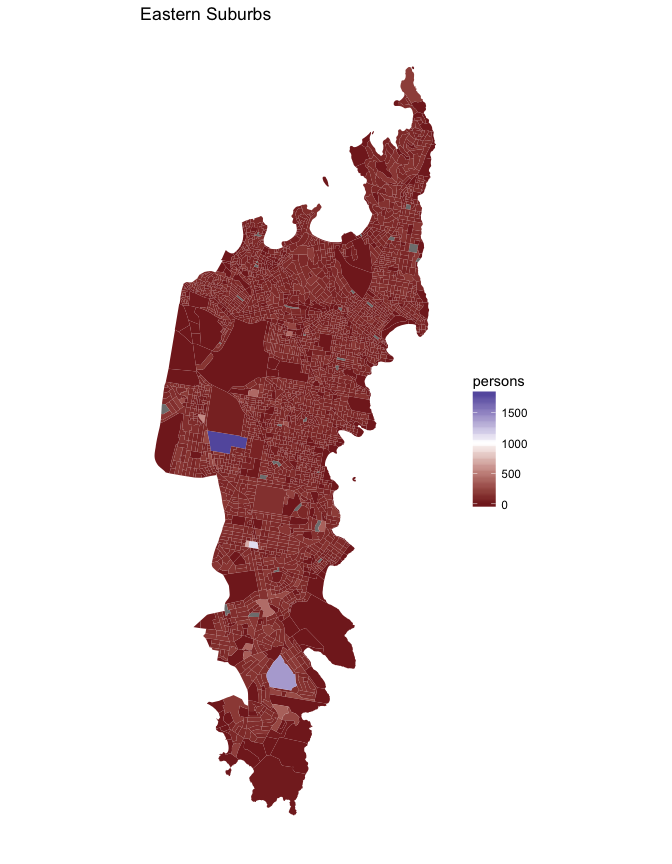
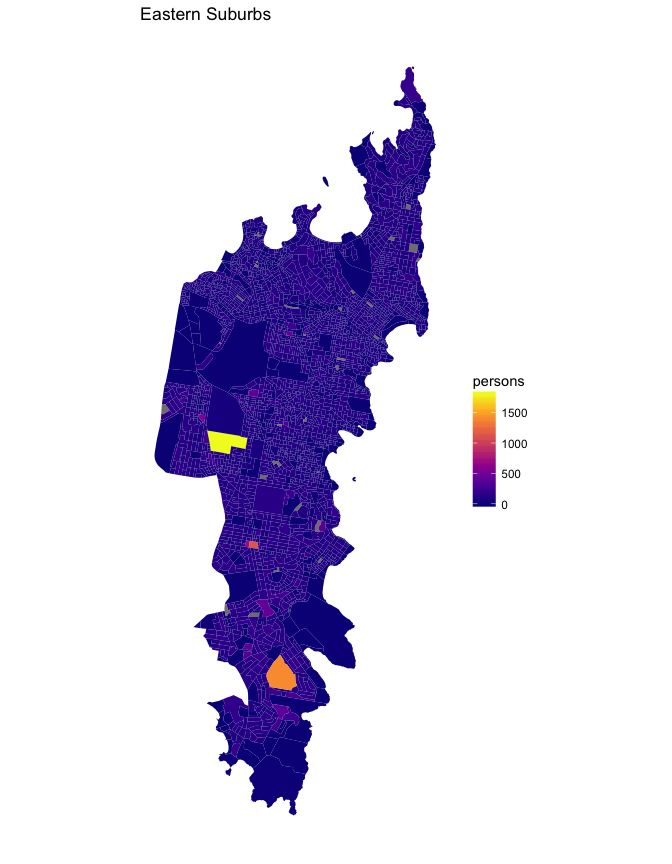
Use viridis plasma palette

Changed region(s): [[0.2188, 0.0625, 0.6562, 0.9375], [0.6875, 0.4375, 0.75, 0.5938]]

diff --git a/census_mapping/census_blocks.md b/census_mapping/census_blocks.md
@@ -1,7 +1,7 @@
 Where no-one lives in Sydney: a comparison of Hornsby and the Eastern Suburbs
 ================
 Neil Saunders
-2018-04-04 07:54:40
+2018-04-10 22:13:34
 
 -   [Introduction](#introduction)
 -   [Getting the data](#getting-the-data)
@@ -45,7 +45,7 @@ First, we load the required packages and read the census data into a data frame.
 Next, we read in the New South Wales shapefile to create an object of class *SpatialPolygonsDataFrame*. This stores the polygon data for drawing maps along with any other data that we want to use. Adding a key, *id*, helps us to join coordinates with other data in a later step.
 
     ## OGR data source with driver: ESRI Shapefile 
-    ## Source: "/Users/neil/Dropbox/projects/github_projects/ABSData/census_mapping/data/shapefiles/asgs/2011", layer: "MB_2011_NSW"
+    ## Source: "/Users/neilsaunders/Dropbox/projects/github_projects/ABSData/census_mapping/data/shapefiles/asgs/2011", layer: "MB_2011_NSW"
     ## with 107325 features
     ## It has 16 fields
 
